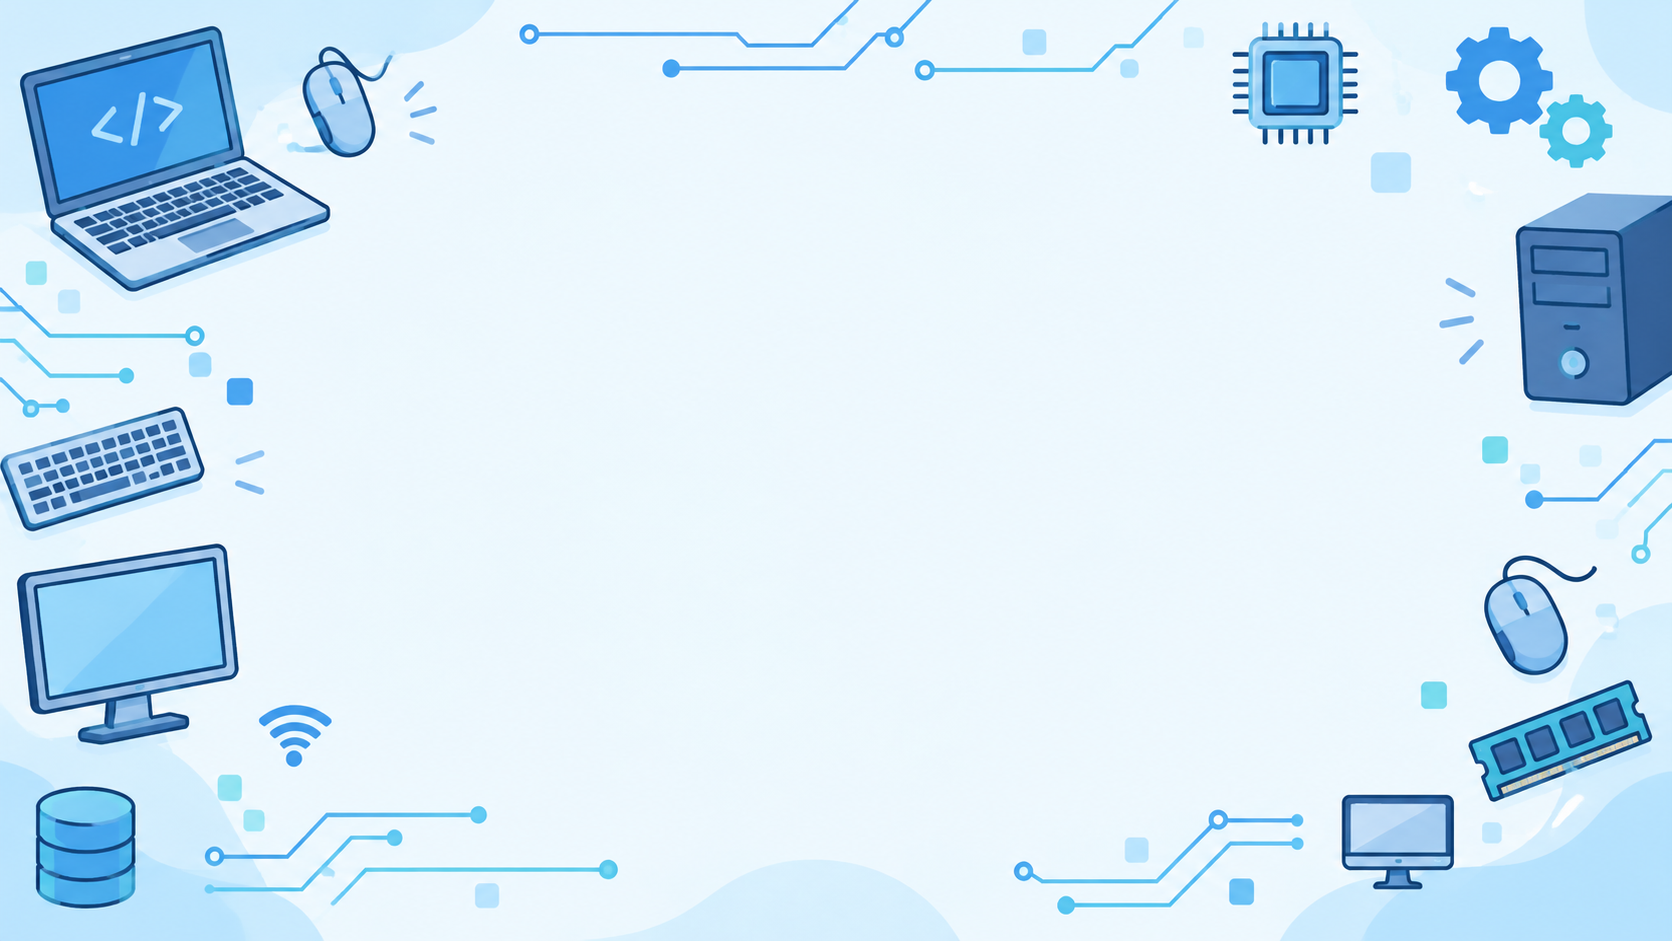
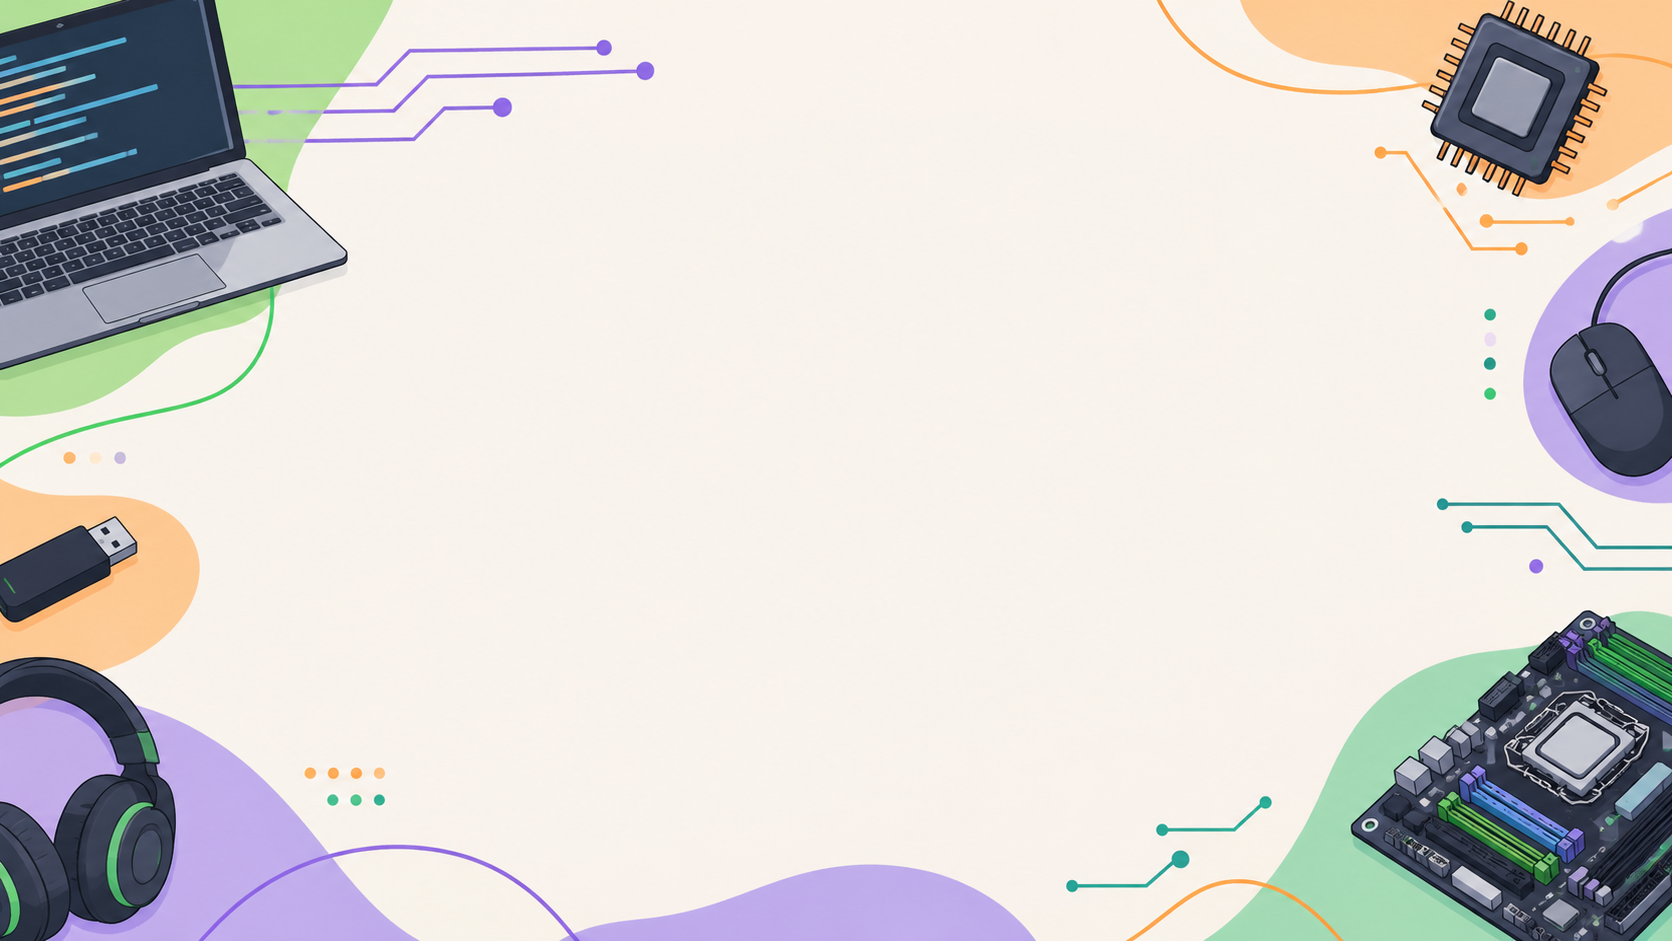
se cambio el fondo y se agregaron imagenes

diff --git a/tic proyecto final/style.CSS b/tic proyecto final/style.CSS
@@ -20,7 +20,7 @@ body {
 }
 /*ENCABEZADO*/
 header {
-    background: linear-gradient(135deg, #2563eb, #4f46e5);
+    background: linear-gradient(135deg, #5e8cf0, #4f46e5);
     color: white;
     text-align: center;
     padding: 60px 20px;
@@ -35,14 +35,14 @@ header p {
 /* MENÚ DE NAVEGACIÓN */
 nav {
     background-color: #ffffff;
-    display: flex;
+    display: flex;  /* Utiliza un diseño flexible para organizar los enlaces de navegación */
     justify-content: center;
     gap: 10px;
     padding: 15px;
     position: sticky;
-    top: 0;
+    top: 0; /* Mantiene el menú de navegación fijo en la parte superior al hacer scroll */
     z-index: 100;
-    box-shadow: 0 2px 8px rgba(0, 0, 0, 0.10);
+    box-shadow: 0 2px 8px rgba(0, 0, 0, 0.10); 
 }
 nav a {
     text-decoration: none;
@@ -63,7 +63,7 @@ main {
     padding: 30px 20px;
 }
 section {
-    background-color: white;
+    background-color: transparent;
     margin-bottom: 30px;
     padding: 35px;
     border-radius: 15px;
@@ -336,9 +336,7 @@ footer {
     margin-top: 5px;
     color: #475569;
 }
-/* ========================================
-   CELULARES
-   ======================================== */
+/* CELULARES*/
 @media (max-width: 900px) {
     .flecha {
         transform: rotate(90deg);
@@ -347,9 +345,7 @@ footer {
         flex-direction: column;
     }
 }
-/* ========================================
-   EXPLORADOR DE HARDWARE
-   ======================================== */
+/* EXPLORADOR DE HARDWARE */
 .explorador-hardware {
     margin-top: 45px;
     padding-top: 30px;
@@ -362,8 +358,8 @@ footer {
 /* CONTENEDOR DE LA IMAGEN */
 .imagen-pc {
     position: relative;
-    max-width: 600px;
-    margin: 30px auto;
+    max-width: 600px; /* Limita el ancho máximo de la imagen */
+    margin: 30px auto; /* Centra la imagen en la página */
 }
 /* IMAGEN */
 .imagen-pc img {
@@ -419,12 +415,10 @@ footer {
     font-size: 20px;
     margin-bottom: 8px;
 }
-
 /* Ocultar el checkbox */
 .activar-componente {
     display: none;
 }
-
 /* El punto funciona como un botón */
 .punto-hardware {
     position: absolute;
@@ -442,17 +436,14 @@ footer {
     box-shadow: 0 3px 10px rgba(0, 0, 0, 0.3);
     transition: 0.3s;
 }
-
-.punto-hardware:hover {
+.punto-hardware:hover {  /* Al pasar el mouse sobre el punto, se agranda ligeramente */
     transform: scale(1.3);
 }
-
 /* Posición del punto CPU */
 .punto-cpu {
     top: 30%;
     left: 30%;
 }
-
 /* Texto oculto inicialmente */
 .texto-cpu {
     display: none;
@@ -514,8 +505,6 @@ footer {
 #madre:checked ~ .texto-madre {
     display: block;
 }
-
-
 /* CUESTIONARIO DE INFORMÁTICA */
 
 .quiz {
@@ -523,7 +512,6 @@ footer {
     margin: 40px auto;
     padding: 20px;
 }
-
 /* ENCABEZADO DEL QUIZ */
 .encabezado-quiz {
     text-align: center;
@@ -533,16 +521,13 @@ footer {
     color: white;
     border-radius: 15px;
 }
-
 .encabezado-quiz h1 {
     margin-top: 0;
     font-size: 32px;
 }
-
 .encabezado-quiz p {
     line-height: 1.6;
 }
-
 /* TARJETAS DE LAS PREGUNTAS */
 .pregunta {
     background-color: white;
@@ -554,14 +539,12 @@ footer {
     transition: transform 0.3s, box-shadow 0.3s;
     border-color: #7daceb;
 }
-
 /* EFECTO AL PASAR EL MOUSE */
 .pregunta:hover {
     transform: translateY(-4px);
     box-shadow: 0 8px 20px rgba(0, 0, 0, 0.12);
     border-color: #2563eb;
 }
-
 /* TÍTULO DE CADA PREGUNTA */
 .pregunta h2 {
     color: #1e3a8a;
@@ -569,13 +552,11 @@ footer {
     margin-top: 0;
     margin-bottom: 18px;
 }
-
 /* OCULTAR LOS BOTONES DE OPCIÓN ORIGINALES */
 .pregunta input[type="radio"] {
     position: absolute;
     opacity: 0;
 }
-
 /* DISEÑO DE LAS OPCIONES */
 .pregunta label {
     display: block;
@@ -589,13 +570,11 @@ footer {
     transition: background-color 0.2s,
                 border-color 0.2s;
 }
-
 /* CAMBIO DE COLOR AL PASAR EL MOUSE */
 .pregunta label:hover {
     background-color: #eff6ff;
     border-color: #60a5fa;
 }
-
 /* RESALTAR LA OPCIÓN SELECCIONADA */
 .pregunta input[type="radio"]:checked + label {
     background-color: #dbeafe;
@@ -603,7 +582,6 @@ footer {
     color: #1e3a8a;
     font-weight: bold;
 }
-
 /* INDICACIÓN FINAL */
 .indicacion-quiz {
     text-align: center;
@@ -744,14 +722,14 @@ footer {
     gap: 16px;
     margin-top: 24px;
 }
-.uso-card {
+.uso-tarjeta {
     padding: 22px 18px;
     border: 1px solid #dbeafe;
     border-radius: 14px;
     background: #f8fbff;
     transition: transform .2s ease, box-shadow .2s ease;
 }
-.uso-card:hover {
+.uso-tarjeta:hover {
     transform: translateY(-4px);
     box-shadow: 0 8px 20px rgba(37, 99, 235, .12);
 }
@@ -760,11 +738,11 @@ footer {
     margin-bottom: 10px;
     font-size: 32px;
 }
-.uso-card h3 {
+.uso-tarjeta h3 {
     margin: 0 0 8px;
     color: #1d4ed8;
 }
-.uso-card p {
+.uso-tarjeta p {
     margin: 0;
     font-size: 15px;
 }
@@ -838,21 +816,6 @@ footer {
 .recurso-final h2 {
     margin-bottom: 12px;
 }
-.boton-recurso {
-    display: inline-block;
-    margin-top: 8px;
-    padding: 12px 18px;
-    border-radius: 9px;
-    background: #2563eb;
-    color: #fff;
-    font-weight: 700;
-    text-decoration: none;
-    transition: background .2s ease, transform .2s ease;
-}
-.boton-recurso:hover {
-    background: #1d4ed8;
-    transform: translateY(-2px);
-}
 .video-ilustrado {
     display: grid;
     place-items: center;
@@ -880,7 +843,7 @@ footer {
 }
 .cierre-aprendizaje {
     text-align: center;
-    background: #f8fafc;
+    background: #74e2c7;
     border: 1px solid #dbeafe;
 }
 .cierre-aprendizaje h2 {
@@ -894,6 +857,7 @@ footer {
     background: #dbeafe;
     color: #1d4ed8;
 }
+/* ADAPTACIÓN PARA CELULARES */
 @media (max-width: 900px) {
     .usos-grid {
         grid-template-columns: repeat(2, minmax(0, 1fr));

diff --git a/tic proyecto final/paginas/computadora.html b/tic proyecto final/paginas/computadora.html
@@ -60,23 +60,23 @@
         <section id="usos">
             <h2>¿Para qué utilizamos una computadora?</h2>
             <p>Su utilidad depende de las necesidades de cada persona. Algunos ejemplos de uso son:</p>
-            <div class="usos-grid">
-                <article class="uso-card">
+            <div class="usos-grid">  /* ADAPTACIÓN PARA CELULARES */
+                <article class="uso-tarjeta">
                     <span class="uso-icono" aria-hidden="true">📚</span>
                     <h3>Aprender</h3>
                     <p>Buscar información, realizar actividades escolares y acceder a materiales educativos.</p>
                 </article>
-                <article class="uso-card">
+                <article class="uso-tarjeta">
                     <span class="uso-icono" aria-hidden="true">✍</span>
                     <h3>Crear</h3>
                     <p>Escribir documentos, diseñar presentaciones, editar imágenes y producir contenido.</p>
                 </article>
-                <article class="uso-card">
+                <article class="uso-tarjeta">
                     <span class="uso-icono" aria-hidden="true">💬</span>
                     <h3>Comunicarnos</h3>
                     <p>Enviar mensajes, participar en videollamadas y compartir archivos.</p>
                 </article>
-                <article class="uso-card">
+                <article class="uso-tarjeta">
                     <span class="uso-icono" aria-hidden="true">🎮</span>
                     <h3>Entretenernos</h3>
                     <p>Jugar, escuchar música, ver videos y explorar contenidos digitales.</p>
@@ -123,8 +123,6 @@
                 <span class="etiqueta-seccion">PARA SEGUIR APRENDIENDO</span>
                 <h2>¿Sabias que las compudoras no simpre fueron así? Explorá el tema en video</h2>
                 <p>A lo largo de la historia, las computadoras han evolucionado mucho. Sobre todo sus componentes y sus funciones. Mirá este video para conocer más sobre su desarrollo.</p>
-                <a class="boton-recurso" href="https://www.youtube.com/results?search_query=que+es+una+computadora+explicacion+para+estudiantes" target="_blank" rel="noopener noreferrer">Buscar videos educativos ↗</a>
-            </div>
             <div class="video-ilustrado" aria-hidden="true">
                 <span>▶</span>
                 <p>Aprender también es explorar</p>
@@ -133,8 +131,7 @@
 
         <section class="cierre-aprendizaje">
             <h2>Antes de continuar...</h2>
-            <p>Intentá explicar con tus propias palabras qué es una computadora y mencioná dos actividades en las que podría ayudarte.</p>
-            <a class="enlace-destacado" href="actividades.html">Ir a las actividades <span aria-hidden="true">→</span></a>
+            <p>Intentá explicar con tus propias palabras qué es una computadora y mencioná dos actividades que sueles hacer con ella en tu vida diaria.</p>
         </section>
     </main>
 

diff --git a/tic proyecto final/index.HTML b/tic proyecto final/index.HTML
@@ -7,6 +7,7 @@
     <title>Explorando la Computadora</title>
     <link rel="stylesheet" href="style.css">
     <link rel="stylesheet" href="https://cdnjs.cloudflare.com/ajax/libs/animate.css/4.1.1/animate.min.css">
+    <link rel="icon" type="image/png" href="img/favicon1.png">
 </head>
 <body>
     <!-- ENCABEZADO -->
